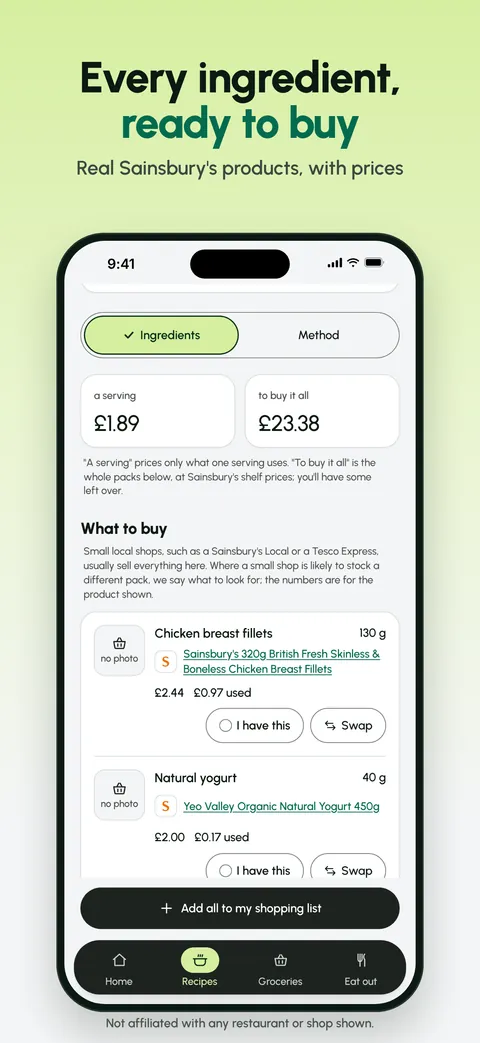
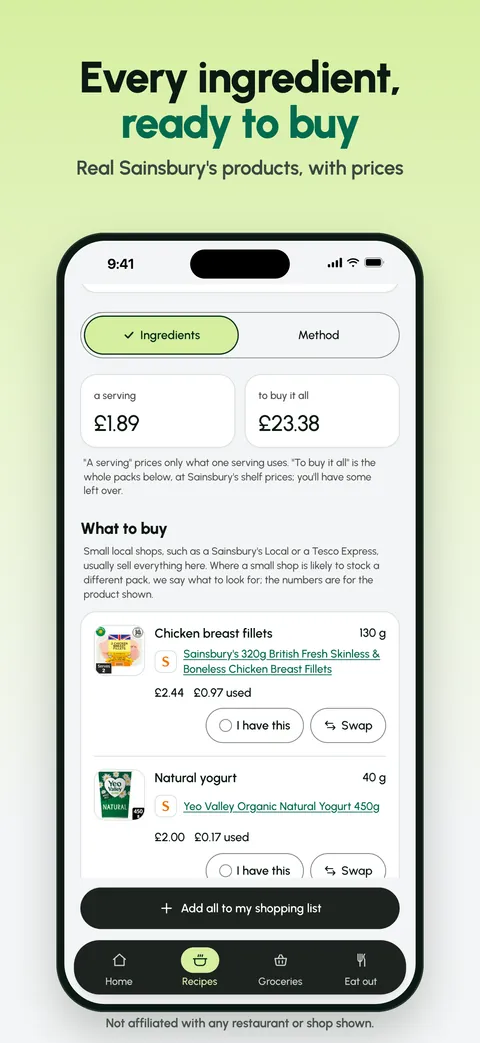
numbite.com: the App Store's own screenshots, with their food photos; the hero phone cut from them
The founder, on the copies retaken in the cloud without photos: "the screenshots should be the
images of the screens from the App Store ... there's some screens here where there's no images of
the food products".
- See it on your phone: the ten screenshots of the live App Store listing, exactly as the store
  shows them. e2e/site-screens.mjs fetches them from the listing (Apple's 1320 x 2868 originals).
- Hero phone: cut from them, now four screens, Meal plan first (our recipe pictures), then Home,
  Best for you (the dishes' photos) and the leaderboards. No logo in the part shown.
- CLAUDE.md rule 2 records the decision; the report, a log entry and the screenshots are updated.

Claude-Session: https://claude.ai/code/session_01DbMRbL39srBBvZtT8vJh4N

diff --git a/web/app/(site)/page.tsx b/web/app/(site)/page.tsx
@@ -33,16 +33,19 @@ const pillars = [
   { title: "Recipes", body: "Recipes filled with real products from your supermarket, with calories, protein and the cost of each serving. Swap any ingredient.", Icon: PotIcon },
 ];
 
-// The hero's phone (direction "A. Lime", 27 November 2026): the screen alone, cut from three of the screenshots below (e2e/hero-screens.mjs), slowly fading
-// from one to the next. Only screens with no chain's or shop's logo and no food picture in the part shown (the hero is marketing: CLAUDE.md rule 2).
+// The hero's phone (direction "A. Lime", 27 November 2026): the screen alone, cut from four of the App Store screenshots below (e2e/hero-screens.mjs), slowly
+// fading from one to the next; the first (Meal plan, our own recipe pictures) is shown at once and alone with Reduce Motion. With their food pictures, as the
+// store shows them (founder 27 Nov 2026); no logo in the part shown.
 const heroScreens = [
+  { name: "plan", alt: "Meal plan: today's calories, protein and food cost, starting with cottage cheese pancakes with banana and honey for breakfast." },
   { name: "home", alt: "The app's Home screen: the calories left today, and the protein, carbs and fat eaten so far against your targets." },
-  { name: "best", alt: "Best for you: a restaurant's lunches up to 700 kcal, ranked by the most protein for their calories." },
+  { name: "best", alt: "Best for you: a restaurant's lunches up to 700 kcal, each with its photo, ranked by the most protein for their calories." },
   { name: "groceries", alt: "Nutrition leaderboards: the top 20 supermarket products for the most protein for the calories, the cheapest protein and more." },
 ];
 
-// The App Store screenshots of 1.1 (22 November 2026), in the store's order, retaken without the chains' and shops' own photos, which CLAUDE.md rule 2
-// keeps out of marketing (e2e/site-screens.mjs). The words are the ones drawn on each picture.
+// The App Store listing's own ten screenshots of 1.1, in the store's order, exactly as the store shows them (e2e/site-screens.mjs fetches them): with the
+// chains' and shops' photos and logos as the app shows them (founder 27 Nov 2026: "the screenshots should be the images of the screens from the App Store").
+// The words are the ones drawn on each picture.
 const screens = [
   { name: "recipes", alt: "Recipes priced at your shop. Real products from 7 UK supermarkets." },
   { name: "recipe", alt: "Every ingredient, ready to buy. Real Sainsbury's products, with prices." },

diff --git a/web/app/globals.css b/web/app/globals.css
@@ -241,12 +241,14 @@ p { text-wrap: pretty; }
 /* A slow crossfade through the screens: each shown for 5 s, 1.2 s to fade; the first starts fully shown (its negative delay), the others wait their turn hidden.
    For reduced motion nothing moves (the global rule above stops every animation) and only the first screen is there: the others are not even loaded. No Pause
    button, as on the welcome screen's logo wall (founder 2026-11-20: "There's literally no point of a pause button"): Reduce Motion stops it. */
-@keyframes hero-screen { 0% { opacity: 0; } 8% { opacity: 1; } 33.333% { opacity: 1; } 41.333% { opacity: 0; } 100% { opacity: 0; } }
+/* Four screens, 20 s round: each 5 s (25%), 1.2 s (6%) to fade in and out. */
+@keyframes hero-screen { 0% { opacity: 0; } 6% { opacity: 1; } 25% { opacity: 1; } 31% { opacity: 0; } 100% { opacity: 0; } }
 @media (prefers-reduced-motion: no-preference) {
-  .hero-screen > img { animation: hero-screen 15s ease-in-out infinite; }
+  .hero-screen > img { animation: hero-screen 20s ease-in-out infinite; }
   .hero-screen > img:nth-child(1) { animation-delay: -1.2s; }
   .hero-screen > img:nth-child(2) { animation-delay: 3.8s; }
   .hero-screen > img:nth-child(3) { animation-delay: 8.8s; }
+  .hero-screen > img:nth-child(4) { animation-delay: 13.8s; }
 }
 @media (prefers-reduced-motion: reduce) { .hero-screen > img:not(:first-child) { display: none; } }
 

diff --git a/docs/SITE_HERO_LIME_REPORT.md b/docs/SITE_HERO_LIME_REPORT.md
@@ -58,17 +58,18 @@ The branch preview is **https://menumacros-git-claude-site-hero-lime-aman-moneys
   stops the build rather than letting it show a wrong figure. Note that the 9 supermarkets include Lidl, whose list has prices but few labels (39 of
   1,037 products have nutrition). The app counts it the same way.
 - **Phone rising from the bottom edge.** An ink frame drawn in CSS (no new image) holding the real app screens, cut off by the hero's bottom edge. It
-  crossfades slowly through **three** screens, each shown for 5 seconds with a 1.2 second fade:
+  crossfades slowly through **four** screens, each shown for 5 seconds with a 1.2 second fade:
+  - **Meal plan**: the week's dishes and today's calories, protein and cost, with our own recipe pictures (the pancakes). It comes first.
   - **Home**: the day's calories, protein, carbs and fat.
-  - **Best for you**: lunches ranked by protein for their calories, with our own cuisine icons.
+  - **Best for you**: lunches ranked by protein for their calories, each with the dish's own photo.
   - **Nutrition leaderboards** from Groceries.
 
-  **Why three and not four:** the brief keeps logos and food photos out of marketing. Every other screen in `public/screens/` shows a chain's or a shop's
-  logo near the top (Eat out, Truth's Nando's logo, Scan's Asda logo, Recipes and Recipe's Sainsbury's logo) or food pictures (Plan, Fridge, Recipes).
-  **How the pictures are made:** the screens are cut out of the existing store screenshots by `web/e2e/hero-screens.mjs`. It keeps only the top 70% of
-  the screen, the part the hero shows, so the M&S tile and the Aldi logo further down the leaderboards screen are not in the files at all. That gives six
-  WebP files in `web/public/screens/hero/` (13 to 44 KB each).
-- **Reduced motion.** With Reduce Motion on, the phone stands still on Home. The other two screens are hidden and never downloaded.
+  **Where the pictures come from (changed the same evening):** the founder asked for "the images of the screens from the App Store", because the copies
+  retaken in the cloud had no food photos. So `web/e2e/site-screens.mjs` now fetches the ten screenshots from the live App Store listing (Apple's
+  1320 × 2868 originals) for the "See it on your phone" row, exactly as the store shows them, photos and logos included. `web/e2e/hero-screens.mjs` cuts the
+  phone's screens from those, keeping only the top 70% of each, the part the hero shows. None of the four has a logo in that part. The founder's decision is
+  recorded in CLAUDE.md rule 2. The files are in `web/public/screens/hero/` (14 to 61 KB each).
+- **Reduced motion.** With Reduce Motion on, the phone stands still on Meal plan. The other three screens are hidden and never downloaded.
 - **No Pause button.** This follows the founder's decision for the welcome screen's logo wall on 20 November ("There's literally no point of a pause
   button"): Reduce Motion is the way to stop it. Strictly, WCAG 2.2.2 asks for a pause control on motion that lasts more than 5 seconds. Say if you want
   one: it is a small change.

diff --git a/CLAUDE.md b/CLAUDE.md
@@ -73,7 +73,7 @@ Scheme: `MenuMacros`. Tests: Swift Testing (`import Testing`, `@Test`, `#expect`
    day its owner asks). Founder's decision (2026-10-12, free App Store launch, "Keep, with safeguards"): a logo (and, since 2026-10-14, that chain's item photos or that shop's product photos) can be taken
    down without an app update by listing its chain id (or `shop:<id>`) in `web/public/logos/hidden.json` and deploying the website; the iPhone
    app's welcome wall showed names only until 2026-10-18, when the founder decided "it has to be the logos too" (accepted risk): the wall now follows the same `appLogos` switch as the rest of the app
-   (`web/app-content.json`; false = names and cuisine icons everywhere, the one-line fallback if App Review objects under 5.2.1); founder 2026-11-21 ("if they have logo things, they should also show the logo", "We need logos everywhere", accepted risk under App Review 2.3.9): they show the official logo files as the app shows them (and the product and dish photos the photo rule allows), with the line "Not affiliated with any restaurant or shop shown." on each screenshot that has one (`web/e2e/store-shots-v2.mjs`, `store-frames.mjs`; `NO_LOGOS=1` makes the fallback set without logos if App Review objects).
+   (`web/app-content.json`; false = names and cuisine icons everywhere, the one-line fallback if App Review objects under 5.2.1); founder 2026-11-21 ("if they have logo things, they should also show the logo", "We need logos everywhere", accepted risk under App Review 2.3.9): they show the official logo files as the app shows them (and the product and dish photos the photo rule allows), with the line "Not affiliated with any restaurant or shop shown." on each screenshot that has one (`web/e2e/store-shots-v2.mjs`, `store-frames.mjs`; `NO_LOGOS=1` makes the fallback set without logos if App Review objects). Founder 2026-11-27 ("the screenshots should be the images of the screens from the App Store"): numbite.com's homepage shows the App Store listing's own screenshots exactly as the store shows them, the chains' and shops' photos and logos included, with that line under them (`web/e2e/site-screens.mjs`), and its hero's phone is cut from them (`web/e2e/hero-screens.mjs`); nowhere else in marketing.
 3. **No medical claims.** GLP-1 copy is "smaller, protein-first orders". Never call food good/bad/healthy.
    Reminder names and times are the person's own: the app gives no medication guidance and never calls a reminder missed or late.
 4. **Privacy:** **everyone signs in** (founder 2026-11-17, "Sign up screen shouldn't be skippable, required for everyone"): `SIGN_IN_REQUIRED` in `web/lib/mm/config.ts`

diff --git a/docs/PROGRESS_LOG.md b/docs/PROGRESS_LOG.md
@@ -4398,3 +4398,15 @@ Founder (asleep until 09:00): "I feel like the onboarding is missing a lot, mayb
   - **Rollback:** Vercel › menumacros › Deployments › dpl_GYGGWHARADupEnxfwYxzT3Mhacc5 (da6f5d80) › Instant Rollback.
   - **Still for the founder** (they are live as built): the hero's short line, the header staying lime down the page, a Pause button (none), the sunrise or the
     flat lime, and #12's points (shared dish links, former web app users).
+- 2026-11-27 (later) — **numbite.com's screenshots are the App Store's own** (founder, on the copies retaken in the cloud without photos: "the screenshots should
+  be the images of the screens from the App Store you took. Just the photos of the screens, because there's some screens here where there's no images of the
+  food products").
+  - **"See it on your phone":** the ten screenshots of the live App Store listing (1.1, released 24 November), exactly as the store shows them, photos and logos
+    included. `web/e2e/site-screens.mjs` now fetches them from the listing itself (iTunes lookup, Apple's 1320 x 2868 originals) instead of a local retake.
+    The caption "Not affiliated with any restaurant or shop shown." stays under them.
+  - **Hero phone:** cut from those images, now four screens: Meal plan first (our recipe pictures), Home, Best for you (the dishes' photos), the leaderboards. No
+    logo in the part shown. Still on Meal plan with Reduce Motion.
+  - **Decision recorded:** CLAUDE.md rule 2 (founder 2026-11-27): the homepage may show the App Store screenshots with their photos and logos, and the hero is
+    cut from them; nowhere else in marketing.
+  - **Checks:** vitest 4,246 passed (22 skipped); eslint 0 errors; `next build`; axe clean at 375 and 1280 px; the LCP is still the headline (148 to 168 ms with
+    the CPU slowed 4×).
